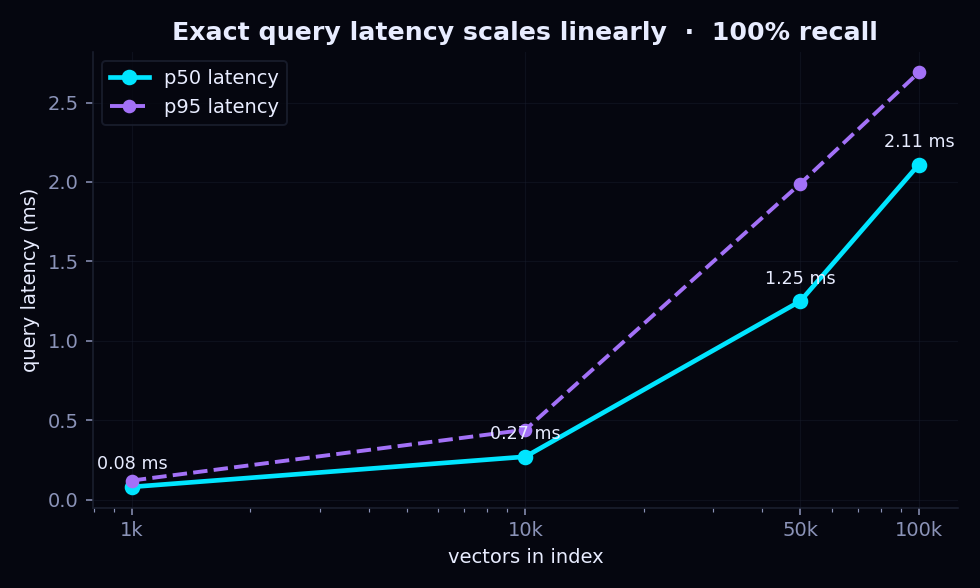
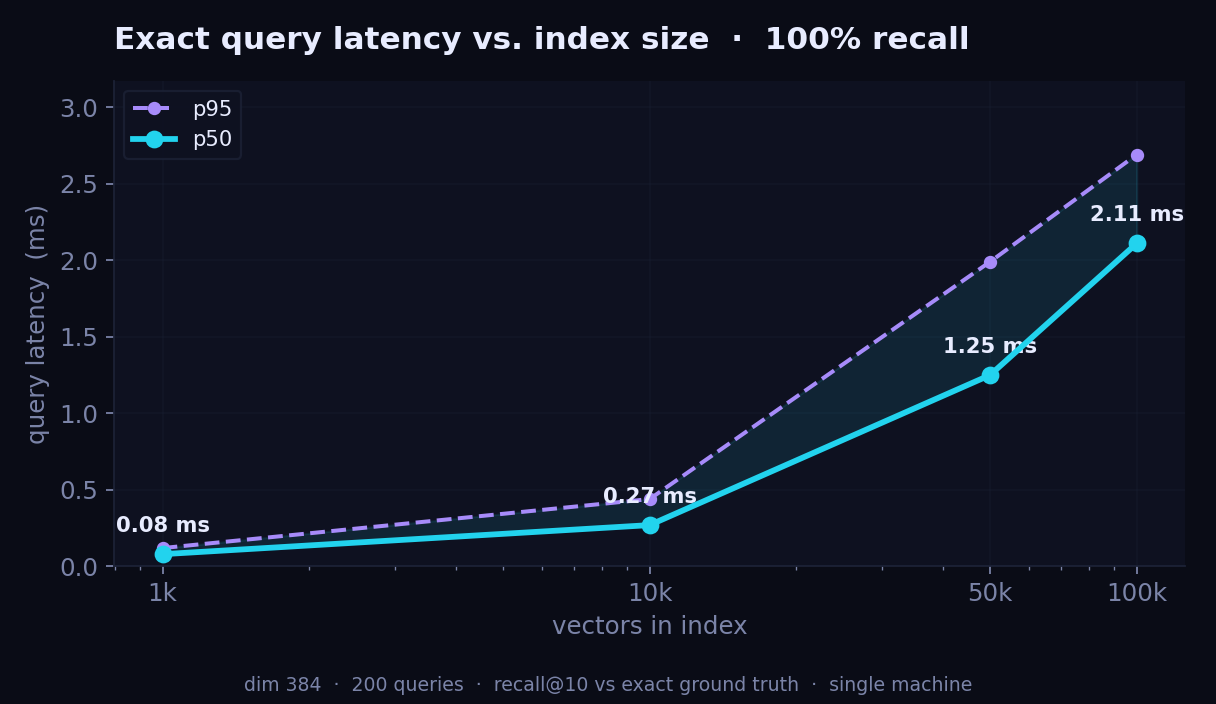
docs: redesign benchmark charts (senior data-viz)
- colour encodes category (exact/approx/cloud); Vektoria highlighted by a ring
- neutral descriptive titles (no marketing in-chart), category legend
- source line in a reserved strip (no axis overlap), sorted bars, shaded p50–p95 band

diff --git a/benchmarks/plot.py b/benchmarks/plot.py
@@ -1,9 +1,12 @@
 """
 Render Vektoria's benchmark charts (PNG) from the measured numbers.
 
-The data below is what benchmarks/bench_engine.py and benchmarks/bench_vs.py
-produced on a dev machine (dim=384, exact ground truth for recall). Re-run those
-scripts to refresh the numbers, then update the constants here.
+Design goals (data-analysis hygiene): neutral descriptive titles, colour encodes
+the engine *category* (exact / approximate / cloud), Vektoria is highlighted by a
+ring rather than a louder colour, direct labels instead of legends where possible,
+and a source line so the numbers are traceable. The data is what
+benchmarks/bench_engine.py and benchmarks/bench_vs.py produced (dim=384, recall@10
+vs exact ground truth). Re-run those, then update the constants here.
 
 Run:  python benchmarks/plot.py   ->  writes assets/*.png
 """
@@ -14,121 +17,150 @@ import matplotlib
 
 matplotlib.use("Agg")
 import matplotlib.pyplot as plt
+from matplotlib.lines import Line2D
+from matplotlib.patches import Circle
 
-# ── Vektoria brand palette on dark ───────────────────────────────────
-BG = "#05060f"
+# ── palette ──────────────────────────────────────────────────────────
+BG = "#0a0c16"
+PANEL = "#0e1120"
 FG = "#e8ecff"
-MUTED = "#8b93b8"
-CYAN = "#00e5ff"
-PURPLE = "#a371f7"
-PINK = "#ff2e63"
-GRID = "#1b2030"
+MUTED = "#7b84a8"
+GRID = "#1c2236"
+EXACT = "#22d3ee"     # cyan  — exact engines
+APPROX = "#a78bfa"    # violet — approximate (ANN) engines
+CLOUD = "#fb7185"     # rose  — hosted cloud service
 
 plt.rcParams.update({
-    "figure.facecolor": BG, "axes.facecolor": BG, "savefig.facecolor": BG,
-    "text.color": FG, "axes.labelcolor": FG, "axes.edgecolor": GRID,
+    "figure.facecolor": BG, "savefig.facecolor": BG, "axes.facecolor": PANEL,
+    "text.color": FG, "axes.labelcolor": MUTED, "axes.edgecolor": GRID,
     "xtick.color": MUTED, "ytick.color": MUTED, "grid.color": GRID,
-    "font.family": "DejaVu Sans", "axes.titleweight": "bold", "axes.titlesize": 13,
+    "font.family": "DejaVu Sans", "font.size": 11,
+    "axes.titlesize": 14, "axes.titleweight": "bold", "axes.titlepad": 14,
+    "axes.labelsize": 11, "figure.dpi": 160,
 })
 
 ASSETS = os.path.join(os.path.dirname(__file__), "..", "assets")
 os.makedirs(ASSETS, exist_ok=True)
+SOURCE = "dim 384  ·  200 queries  ·  recall@10 vs exact ground truth  ·  single machine"
 
 # ── measured data ────────────────────────────────────────────────────
 SIZES = [1_000, 10_000, 50_000, 100_000]
 P50 = [0.08, 0.27, 1.25, 2.11]   # ms, exact query
 P95 = [0.12, 0.44, 1.99, 2.69]
 
-# head-to-head @ 10k vectors: (name, p50_ms, recall%, color, highlight)
+# head-to-head @ 10k vectors: name, p50_ms, recall%, category, is_vektoria
 ENGINES = [
-    ("Vektoria",   0.25, 100.0, CYAN,   True),
-    ("FAISS-Flat", 0.27, 100.0, "#7fd1ff", False),
-    ("FAISS-HNSW", 0.15, 69.0,  PURPLE, False),
-    ("hnswlib",    0.22, 65.0,  "#c4a0ff", False),
-    ("Chroma",     0.71, 52.0,  MUTED,  False),
-    ("Pinecone",   92.0, 98.0,  PINK,   False),
+    ("Vektoria",   0.25, 100.0, "exact",  True),
+    ("FAISS-Flat", 0.27, 100.0, "exact",  False),
+    ("FAISS-HNSW", 0.15, 69.0,  "approx", False),
+    ("hnswlib",    0.22, 65.0,  "approx", False),
+    ("Chroma",     0.71, 52.0,  "approx", False),
+    ("Pinecone",   92.0, 98.0,  "cloud",  False),
 ]
+CAT_COLOR = {"exact": EXACT, "approx": APPROX, "cloud": CLOUD}
+CAT_LABEL = {"exact": "Exact (100% recall)", "approx": "Approximate (ANN)", "cloud": "Hosted cloud"}
 
 
-def _style(ax):
-    ax.grid(True, alpha=0.4, linewidth=0.6)
+def _finish(fig, ax):
     for s in ("top", "right"):
         ax.spines[s].set_visible(False)
-
-
-def chart_scaling():
-    fig, ax = plt.subplots(figsize=(7, 4.2), dpi=140)
-    ax.plot(SIZES, P50, "-o", color=CYAN, lw=2.4, ms=7, label="p50 latency")
-    ax.plot(SIZES, P95, "--o", color=PURPLE, lw=2, ms=6, label="p95 latency")
-    for x, y in zip(SIZES, P50):
-        ax.annotate(f"{y:g} ms", (x, y), textcoords="offset points",
-                    xytext=(0, 9), ha="center", color=FG, fontsize=9)
-    ax.set_xscale("log")
-    ax.set_xticks(SIZES)
-    ax.set_xticklabels([f"{s//1000}k" for s in SIZES])
-    ax.set_xlabel("vectors in index")
-    ax.set_ylabel("query latency (ms)")
-    ax.set_title("Exact query latency scales linearly  ·  100% recall", color=FG)
-    ax.legend(facecolor=BG, edgecolor=GRID, labelcolor=FG)
-    _style(ax)
-    fig.tight_layout()
-    fig.savefig(f"{ASSETS}/latency_scaling.png")
-    plt.close(fig)
+    for s in ("left", "bottom"):
+        ax.spines[s].set_color(GRID)
+    ax.grid(True, alpha=0.35, linewidth=0.7)
+    ax.set_axisbelow(True)
+    fig.tight_layout(rect=(0, 0.055, 1, 1))           # reserve a strip for the source
+    fig.text(0.5, 0.018, SOURCE, ha="center", color=MUTED, fontsize=8.5)
 
 
 def chart_tradeoff():
-    # (x-factor, y-offset) per label so the two exact engines don't collide
-    LABELPOS = {
-        "Vektoria":   (0.50, 2.3),
-        "FAISS-Flat": (1.08, -3.4),
-        "FAISS-HNSW": (1.18, 1.3),
-        "hnswlib":    (1.10, -3.4),
-        "Chroma":     (1.18, 1.3),
-        "Pinecone":   (0.42, 1.8),
+    fig, ax = plt.subplots(figsize=(7.6, 5.0))
+
+    # faint band marking the exact (100% recall) frontier
+    ax.axhspan(99, 103, color=EXACT, alpha=0.06, zorder=0)
+
+    labelpos = {  # (x-factor, y-offset) to keep labels off the markers
+        "Vektoria":   (0.52, 2.6), "FAISS-Flat": (1.10, -3.6),
+        "FAISS-HNSW": (1.16, 1.6), "hnswlib":    (1.05, -3.8),
+        "Chroma":     (1.16, 1.6), "Pinecone":   (0.40, 2.2),
     }
-    fig, ax = plt.subplots(figsize=(7.4, 4.6), dpi=140)
-    for name, lat, rec, color, hi in ENGINES:
-        ax.scatter(lat, rec, s=230 if hi else 130, color=color,
-                   edgecolors=FG if hi else "none", linewidths=1.8, zorder=3)
-        fx, dy = LABELPOS[name]
+    for name, lat, rec, cat, vk in ENGINES:
+        color = CAT_COLOR[cat]
+        ax.scatter(lat, rec, s=300 if vk else 150, color=color, zorder=3,
+                   edgecolors=FG if vk else "none", linewidths=2.2)
+        fx, dy = labelpos[name]
         ax.annotate(name, (lat, rec), xytext=(lat * fx, rec + dy),
-                    color=FG, fontsize=10, fontweight="bold" if hi else "normal")
+                    color=FG, fontsize=10.5, fontweight="bold" if vk else "normal", zorder=4)
+
     ax.set_xscale("log")
-    ax.set_xlabel("query latency (ms, log)  —  lower is better →")
-    ax.set_ylabel("recall@10 (%)  —  higher is better ↑")
-    ax.set_ylim(45, 104)
-    ax.set_title("Recall vs latency  ·  Vektoria ties FAISS-Flat, beats the cloud hop", color=FG)
-    ax.axhspan(99, 104, color=CYAN, alpha=0.05)
-    _style(ax)
-    fig.tight_layout()
+    ax.set_xlabel("query latency  (ms, log scale) — lower is better →")
+    ax.set_ylabel("recall@10  (%) — higher is better ↑")
+    ax.set_ylim(45, 105)
+    ax.set_title("Recall vs. query latency — 10,000 vectors", loc="left")
+
+    handles = [Line2D([0], [0], marker="o", linestyle="", markersize=9,
+                      markerfacecolor=CAT_COLOR[c], markeredgecolor="none", label=CAT_LABEL[c])
+               for c in ("exact", "approx", "cloud")]
+    ax.legend(handles=handles, loc="lower right", frameon=True, facecolor=PANEL,
+              edgecolor=GRID, labelcolor=FG, fontsize=9.5)
+    _finish(fig, ax)
     fig.savefig(f"{ASSETS}/recall_vs_latency.png")
     plt.close(fig)
 
 
 def chart_local_bars():
-    local = [(n, lat, rec, c) for (n, lat, rec, c, _) in ENGINES if n != "Pinecone"]
-    names = [n for n, *_ in local]
-    lats = [lat for _, lat, *_ in local]
-    recs = [rec for _, _, rec, _ in local]
-    colors = [c for *_, c in local]
+    local = sorted([e for e in ENGINES if e[3] != "cloud"], key=lambda e: e[1])
+    names = [e[0] for e in local]
+    lats = [e[1] for e in local]
+    recs = [e[2] for e in local]
+    colors = [CAT_COLOR[e[3]] for e in local]
+    edges = [FG if e[4] else "none" for e in local]
 
-    fig, ax = plt.subplots(figsize=(7.4, 4.2), dpi=140)
-    bars = ax.bar(names, lats, color=colors, width=0.62, zorder=3)
-    for bar, rec in zip(bars, recs):
-        ax.annotate(f"recall {rec:.0f}%", (bar.get_x() + bar.get_width() / 2, bar.get_height()),
-                    textcoords="offset points", xytext=(0, 6), ha="center",
-                    color=FG, fontsize=9)
-    ax.set_ylabel("query latency (ms)")
-    ax.set_title("Local engines @ 10k vectors  ·  latency & recall", color=FG)
-    ax.set_ylim(0, max(lats) * 1.35)
-    _style(ax)
-    fig.tight_layout()
+    fig, ax = plt.subplots(figsize=(7.6, 4.4))
+    bars = ax.bar(names, lats, color=colors, edgecolor=edges, linewidth=2.0, width=0.6, zorder=3)
+    for bar, lat, rec in zip(bars, lats, recs):
+        x = bar.get_x() + bar.get_width() / 2
+        ax.annotate(f"{lat:.2f} ms", (x, bar.get_height()), textcoords="offset points",
+                    xytext=(0, 5), ha="center", color=FG, fontsize=9.5, fontweight="bold")
+        ax.annotate(f"recall {rec:.0f}%", (x, 0), textcoords="offset points",
+                    xytext=(0, 6), ha="center", color=BG, fontsize=8.5, fontweight="bold")
+    ax.set_ylabel("query latency  (ms)")
+    ax.set_ylim(0, max(lats) * 1.30)
+    ax.set_title("Local engines — latency & recall @ 10k (sorted by speed)", loc="left")
+
+    handles = [Line2D([0], [0], marker="s", linestyle="", markersize=10,
+                      markerfacecolor=CAT_COLOR[c], markeredgecolor="none", label=CAT_LABEL[c])
+               for c in ("exact", "approx")]
+    ax.legend(handles=handles, loc="upper left", frameon=True, facecolor=PANEL,
+              edgecolor=GRID, labelcolor=FG, fontsize=9.5)
+    _finish(fig, ax)
     fig.savefig(f"{ASSETS}/local_engines.png")
     plt.close(fig)
 
 
+def chart_scaling():
+    fig, ax = plt.subplots(figsize=(7.6, 4.4))
+    ax.fill_between(SIZES, P50, P95, color=EXACT, alpha=0.10, zorder=1)
+    ax.plot(SIZES, P95, "--o", color=APPROX, lw=1.8, ms=5, label="p95", zorder=3)
+    ax.plot(SIZES, P50, "-o", color=EXACT, lw=2.6, ms=7, label="p50", zorder=4)
+    for x, y in zip(SIZES, P50):
+        ax.annotate(f"{y:g} ms", (x, y), textcoords="offset points",
+                    xytext=(0, 10), ha="center", color=FG, fontsize=9.5, fontweight="bold")
+    ax.set_xscale("log")
+    ax.set_xticks(SIZES)
+    ax.set_xticklabels([f"{s // 1000}k" for s in SIZES])
+    ax.set_xlabel("vectors in index")
+    ax.set_ylabel("query latency  (ms)")
+    ax.set_ylim(0, max(P95) * 1.18)
+    ax.set_title("Exact query latency vs. index size  ·  100% recall", loc="left")
+    ax.legend(loc="upper left", frameon=True, facecolor=PANEL, edgecolor=GRID,
+              labelcolor=FG, fontsize=9.5)
+    _finish(fig, ax)
+    fig.savefig(f"{ASSETS}/latency_scaling.png")
+    plt.close(fig)
+
+
 if __name__ == "__main__":
-    chart_scaling()
     chart_tradeoff()
     chart_local_bars()
+    chart_scaling()
     print(f"Wrote charts to {os.path.normpath(ASSETS)}/")